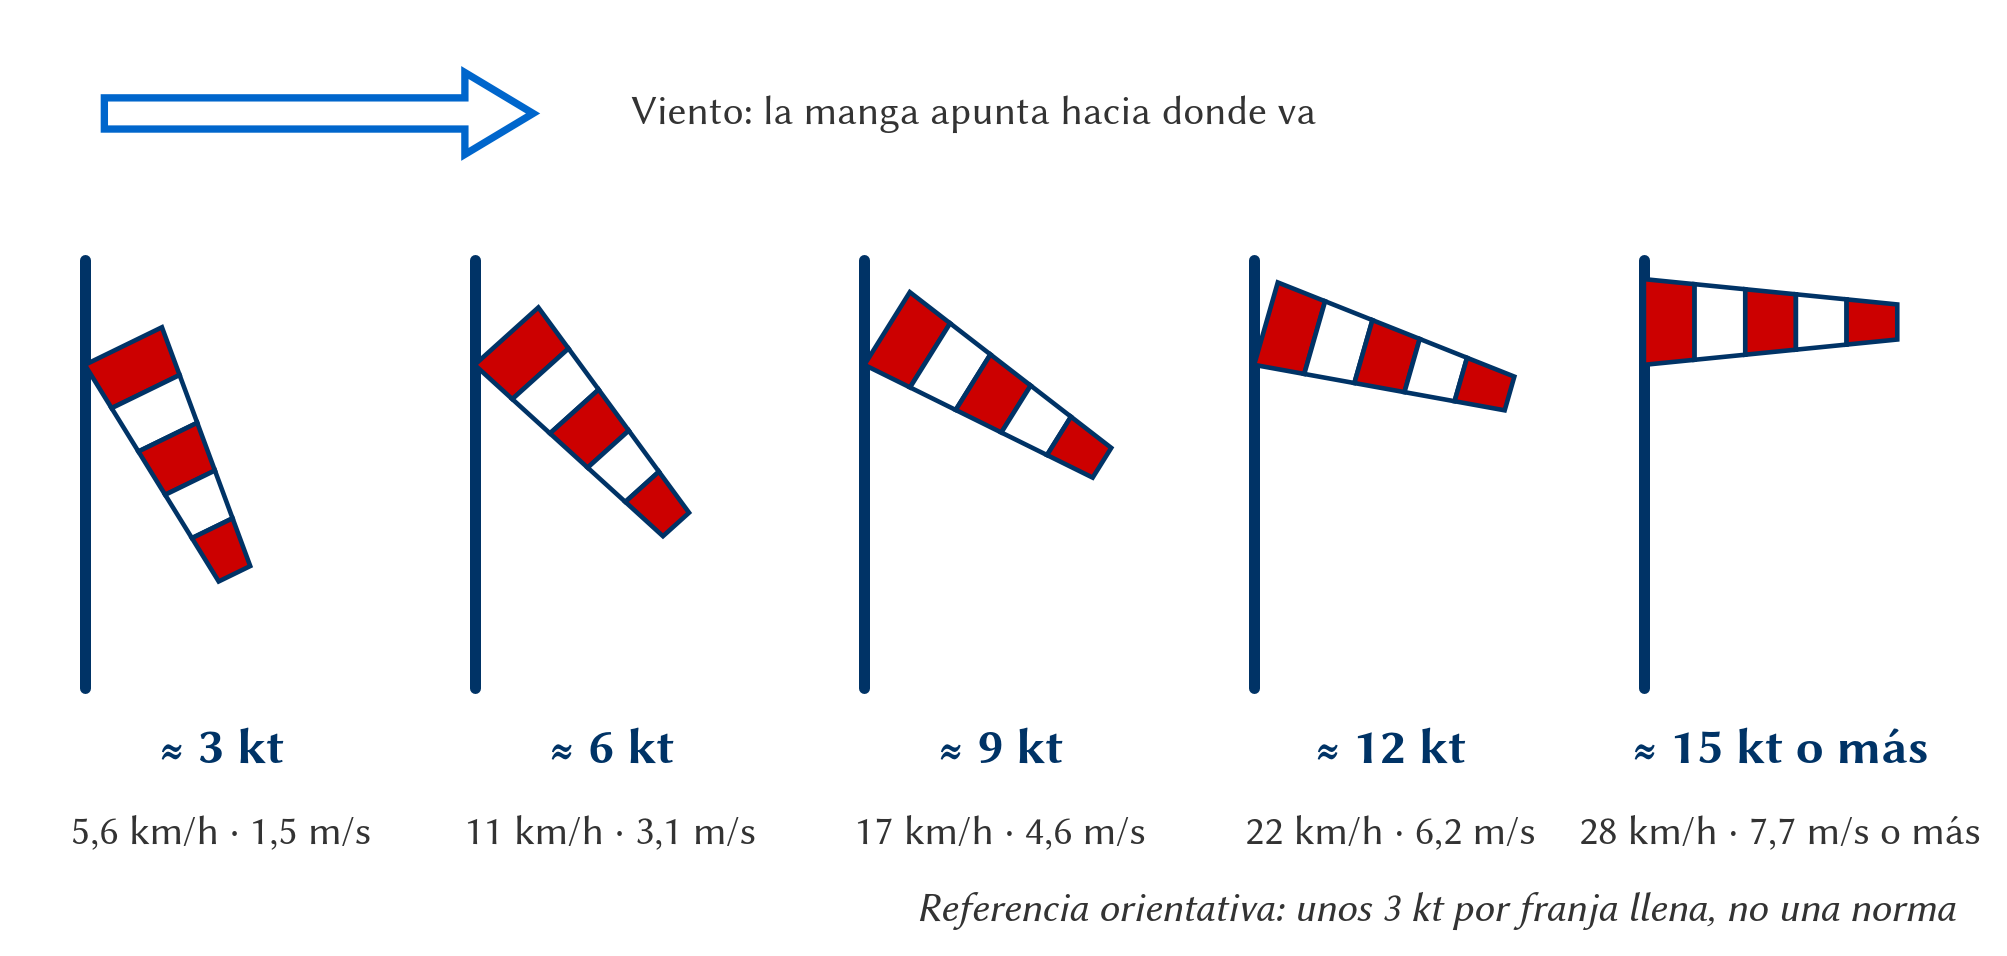
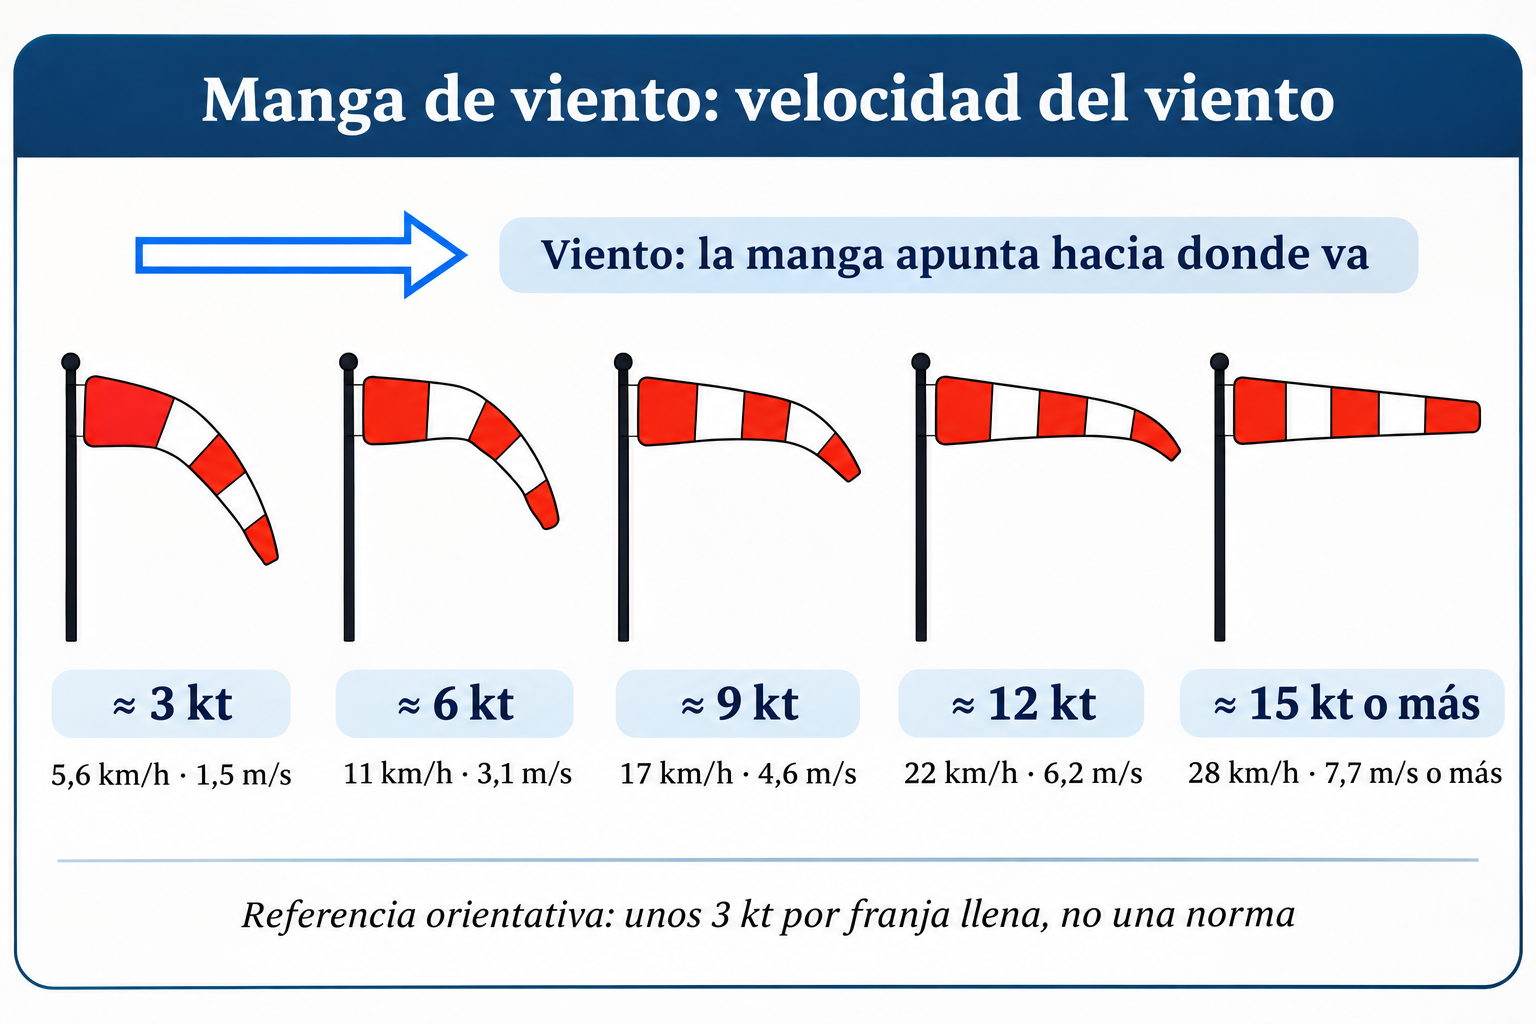
fix(01): replace windsock illustration with selected image

diff --git a/01-derecho-aereo-atc/prompts/01-cap10-manga-viento.prompt.md b/01-derecho-aereo-atc/prompts/01-cap10-manga-viento.prompt.md
@@ -1,13 +1,15 @@
 ---
 schema: 1
 figura: 01-cap10-manga-viento.png
-tipo: grafico-cuantitativo
+tipo: diagrama-conceptual
 estado: borrador
-fecha: "2026-11-20"
+fecha: "2026-11-24"
 herramienta:
-  nombre: "matplotlib"
-  version: "3.10.9"
+  nombre: "Imagen proporcionada por Ramón; herramienta de creación no comunicada"
+  version: ""
 fuentes:
+  - referencia: "Imagen adjunta elegida por Ramón para el issue #77"
+    licencia: "Autoría y licencia de origen pendientes de documentar"
   - referencia: "Convención de origen FAA de unos 3 kt por franja, no norma OACI ni EASA (informe de auditoría del libro 01, TEC-14)"
     licencia: "cita y referencia"
 restricciones:
@@ -16,7 +18,7 @@ restricciones:
 revision:
   persona: ""
   fecha: ""
-master_editable: "tools/figuras/01_derecho_aereo.py"
+master_editable: ""
 ---
 
 # 01-cap10-manga-viento
@@ -25,19 +27,21 @@ master_editable: "tools/figuras/01_derecho_aereo.py"
 llenan, y hacia dónde sopla. Texto en `cap10-aerodromos-y-campos-de-despegue-externos.qmd`, tabla
 «Señales visuales de aeródromo», fila «Manga de Viento».
 
-**Estado.** Sustituida el 20 de noviembre de 2026 (issue #58) por una versión dibujada por código,
-en las dos ediciones; se quitan la clase `.corregir` y la nota del pie, y la figura conserva su
-nombre. Estuvo marcada desde el 1 de octubre de 2026 (TEC-14). Sigue en `borrador`: falta la
-revisión técnica de la figura nueva.
+**Estado.** Sustituida el 24 de noviembre de 2026 en la edición española por la imagen
+proporcionada y elegida por Ramón (issue #77). Se conservan nombre, pie e identificador.
+Sigue en `borrador`: quedan pendientes la revisión técnica y la documentación de autoría
+y licencia de origen.
 
 ## Procedencia
 
-Dibujada con matplotlib 3.10.9 por `manga_viento()`, en
-`tools/figuras/01_derecho_aereo.py`. Se regenera con:
+Archivo raster proporcionado por Ramón, incorporado sin redibujar, reescalar ni
+alterar sus rótulos. No se ha comunicado la herramienta, versión, prompt ni máster
+editable de esta imagen. La elección para el libro no acredita por sí sola su licencia.
 
-```bash
-python3 tools/figuras/01_derecho_aereo.py [--lang en] 01-cap10-manga-viento
-```
+La versión anterior se dibujó con matplotlib 3.10.9 mediante `manga_viento()`, en
+`tools/figuras/01_derecho_aereo.py`, el 20 de noviembre de 2026 (issue #58).
+Ese script **ya no es el máster de la imagen española**: ejecutarlo sin `--lang en`
+sobrescribiría la imagen elegida con el diseño descartado.
 
 La figura anterior no tenía la procedencia documentada.
 
@@ -50,9 +54,9 @@ La figura anterior no tenía la procedencia documentada.
 
 ## Cómo está hecha
 
-**Composición.** Cinco mangas en fila, cada una con una franja más llena que la anterior: el cono
-pasa de colgar casi vertical a quedar horizontal. Cinco franjas alternas rojo `#CC0000` y blanco con
-contorno navy. Debajo de cada una:
+**Composición.** Cinco mangas en fila, progresivamente extendidas hasta quedar
+horizontales, con franjas alternas rojas y blancas. Cabecera «Manga de viento:
+velocidad del viento». Debajo de cada una:
 
 | Franjas llenas | kt | km/h | m/s |
 | --- | --- | --- | --- |
@@ -63,7 +67,7 @@ contorno navy. Debajo de cada una:
 | 5 | ≈ 15 o más | 28 o más | 7,7 o más |
 
 Una flecha hueca azul sobre la fila: «Viento: la manga apunta hacia donde va». Al pie: «Referencia
-orientativa: unos 3 kt por franja».
+orientativa: unos 3 kt por franja llena, no una norma».
 
 **Datos verificados.** Calculados aquí: 3 kt = 5,556 km/h = 1,543 m/s; 6 kt = 11,11 / 3,087; 9 kt =
 16,67 / 4,630; 12 kt = 22,22 / 6,173; 15 kt = 27,78 / 7,716.
@@ -77,5 +81,6 @@ inglés).
 
 ## Edición inglesa
 
-Desde el 20 de noviembre de 2026, la misma figura con `--lang en`: los rótulos en inglés están
-junto a los españoles en el script, con `t(es, en)`, y los números llevan el formato inglés.
+Conserva la versión dibujada por código el 20 de noviembre de 2026. Se regenera con
+`python3 tools/figuras/01_derecho_aereo.py --lang en 01-cap10-manga-viento`.
+La sustitución del issue #77 afecta únicamente a la edición española.

diff --git a/01-derecho-aereo-atc/CHANGELOG-01.md b/01-derecho-aereo-atc/CHANGELOG-01.md
@@ -16,6 +16,16 @@ rompe la compilación.
 
 ## [En curso]
 
+**Qué releer:** cap10, figura «Manga de viento.»: nueva ilustración elegida por Ramón;
+se mantienen las velocidades aproximadas y la advertencia de que no son una norma.
+
+### Cambiado
+
+* **cap10, manga de viento** — se sustituye la versión dibujada por código por la
+  imagen proporcionada por Ramón, con cinco mangas progresivamente extendidas,
+  dirección del viento y conversiones a km/h y m/s. Se conserva el pie y el
+  identificador de figura. Issue #77.
+
 ## [1.0-rc.17] — 21 de noviembre de 2026
 
 **Qué releer:** las **21 figuras** que la auditoría marcó para rehacer (issue #58), en cap01–cap14,
